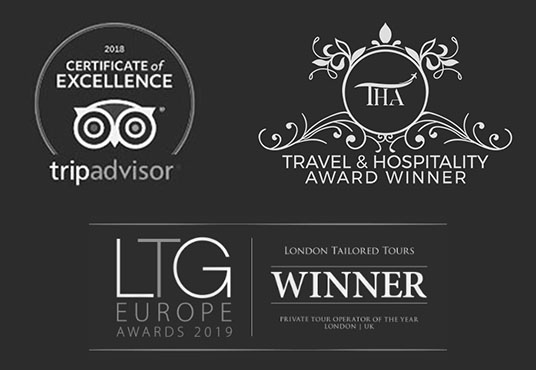
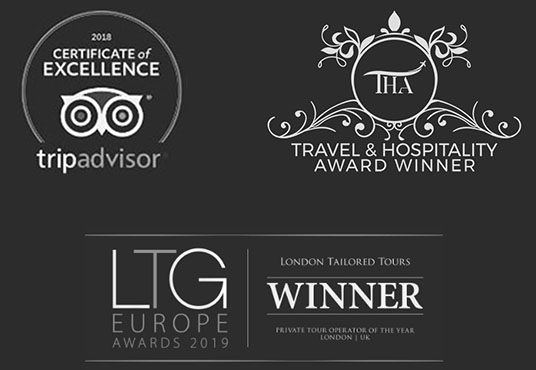
accolade changes

diff --git a/src/sass/accolades.sass b/src/sass/accolades.sass
@@ -4,7 +4,7 @@
     background: $grey2
     padding: 35px 0px
     @media screen and (min-width: 700px)
-        padding: 60px 0px
+        padding: 80px 0px 50px 0px
         text-align: left
 
 .ltx-accolades__inner
@@ -13,6 +13,7 @@
         display: flex
         flex-direction: row
         align-items: center
+
 .ltx-accolades__headline
     margin-bottom: 10px 
 
@@ -25,9 +26,10 @@
         font-size: 3.5em
 
 .ltx-accolades__crests
-    margin-bottom: 20px
+    margin-bottom: 40px
     width: 100%
     @media screen and (min-width: 700px)
+        margin-bottom: 0px
         margin-right: 40px
         max-width: 350px
 
